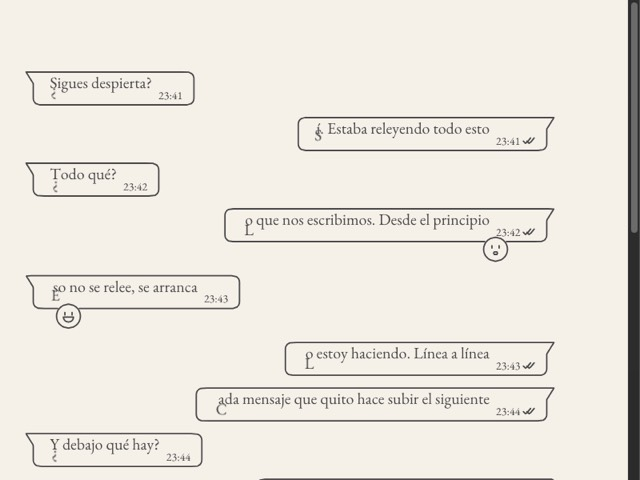
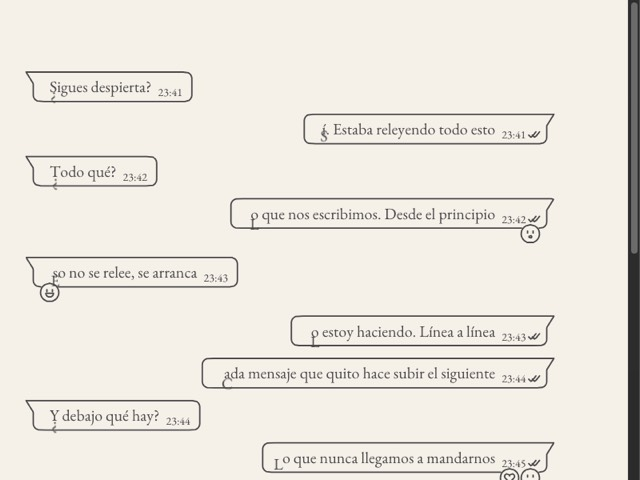
Chat bubbles: text centred, tighter ticks, smaller corner reactions
- A letter's box is exactly the font size (line-height 1), so the text
  block is (lines − 1) × lineHeight + f, centred with .42f above and
  below: the bubble no longer carries the extra line-height under the
  text (one line is now 1.84f tall).
- Tick room is the real ✓✓ width plus a small gap, with a tighter right
  pad after the ticks.
- Reaction badges are 1.15f and start right at the bottom corner
  (bottom-right on outgoing, bottom-left on incoming).

diff --git a/js/layout.js b/js/layout.js
@@ -395,14 +395,11 @@ export function layoutBlockAtWidth(block, maxWidth, startY, blockIdx = null) {
   const blockWidth = Math.max(80, Math.min(maxWidth, fitWidth, block.transform.width || maxWidth));
   // chat bubbles (js/chat.js): the text wraps inside the bubble, which is at most 78% of the block
   const chat = block.chat || null;
-  // bubble proportions measured on a chat app, in units of the font size (f):
-  // left pad .64f, right pad .73f, tail .45f, one-line bubble 2.05f tall with the text centred at .44
+  // bubble proportions in units of the font size (f). A letter's box is exactly f tall
+  // (line-height 1), so the text block is (lines − 1) × lineHeight + f, centred with .42f above and below
   const fpx = state.baseFontPx || 20;
-  const chatPad = chat ? {
-    l: fpx * 0.64, r: fpx * 0.73, tail: chat.tail ? fpx * 0.45 : 0,
-    top: Math.max(2, fpx * 0.9 - lineHeight / 2)
-  } : null;
-  if (chatPad) chatPad.bottom = Math.max(fpx * 0.3, fpx * 2.05 - lineHeight - chatPad.top);
+  const chatPad = chat ? { l: fpx * 0.62, r: fpx * 0.62, tail: chat.tail ? fpx * 0.45 : 0, top: fpx * 0.42, bottom: fpx * 0.42 } : null;
+  if (chatPad && chat.side === 'out' && chat.ticks !== 'none') chatPad.r = fpx * 0.45; // tighter after the ticks
   const wrapWidth = chat ? Math.max(40, blockWidth * 0.78 - chatPad.l - chatPad.r - chatPad.tail) : blockWidth;
   let maxLineW = 0;
   const rawPositions = [];
@@ -450,7 +447,7 @@ export function layoutBlockAtWidth(block, maxWidth, startY, blockIdx = null) {
     if (g !== ' ') maxLineW = Math.max(maxLineW, currentX);
   }
 
-  if (chat) return layoutChatBubble(block, chat, rawPositions, lineIndices, { startY, lineHeight, blockWidth, maxLineW, textUnits: currentY + lineHeight, pad: chatPad, fpx });
+  if (chat) return layoutChatBubble(block, chat, rawPositions, lineIndices, { startY, lineHeight, blockWidth, maxLineW, textUnits: currentY + fpx, pad: chatPad, fpx });
   return {
     positions: rawPositions,
     lineIndices,
@@ -467,7 +464,7 @@ function layoutChatBubble(block, chat, rawPositions, lineIndices, o) {
   const originX = state.MARGIN * sc + block.transform.x;
   let last = rawPositions.length - 1;
   while (last > 0 && (block.graphemes[last] === ' ' || block.graphemes[last] === '\n')) last--;
-  const tickRoom = chat.side === 'out' && chat.ticks !== 'none' ? o.fpx * 0.95 : 0;
+  const tickRoom = chat.side === 'out' && chat.ticks !== 'none' ? o.fpx * 0.2 + 13.5 / sc : 0; // gap + ✓✓ (13.5px)
   const lastRight = last >= 0 ? (rawPositions[last].x + rawPositions[last].w - originX) / sc : 0;
   const innerW = Math.max(o.maxLineW, lastRight + tickRoom, o.fpx);
   const bubbleW = innerW + P.l + P.r;
@@ -476,8 +473,8 @@ function layoutChatBubble(block, chat, rawPositions, lineIndices, o) {
   const W = bubbleW * sc, Hb = (o.textUnits + P.top + P.bottom) * sc;
   const dx = bubbleX + P.l * sc - originX, dy = P.top * sc;
   rawPositions.forEach(p => { p.x += dx; p.y += dy; });
-  // the time: smaller, pushed to the bottom-right corner, its baseline .4f above the bottom edge
-  const timeBase = bubbleY + Hb - f * 0.4;
+  // the time: smaller, pushed to the bottom-right corner, its baseline .36f above the bottom edge
+  const timeBase = bubbleY + Hb - f * 0.36;
   const timeIdx = []; for (let i = 0; i < rawPositions.length; i++) if (block.inlineStyles?.[i]?.size) timeIdx.push(i);
   if (timeIdx.length) {
     const timeRight = Math.max(...timeIdx.map(i => rawPositions[i].x + rawPositions[i].w));
@@ -486,17 +483,17 @@ function layoutChatBubble(block, chat, rawPositions, lineIndices, o) {
   }
   // the ticks sit on the time's baseline, just after it
   const lp = last >= 0 ? rawPositions[last] : null;
-  const ticks = tickRoom && lp ? { x: lp.x + lp.w - bubbleX + f * 0.22, y: timeBase - bubbleY - 8.5 } : null;
-  // reactions: round badges 1.5f across, overlapping the bottom edge by .27f;
-  // under the time on outgoing messages, near the left corner on incoming ones
+  const ticks = tickRoom && lp ? { x: lp.x + lp.w - bubbleX + f * 0.2, y: timeBase - bubbleY - 8.5 } : null;
+  // reactions: round badges 1.15f across, overlapping the bottom edge by .22f;
+  // at the bottom-right corner on outgoing messages, bottom-left on incoming ones
   let total = Hb + 2;
   const reactions = [];
   if (chat.reactions.length) {
-    const h = f * 1.5, w = h + (chat.reactions.length - 1) * (h + 3);
-    const cx = chat.side === 'out' ? W - f * 3.2 : f * 2.2;
-    const x = Math.max(f * 0.6, Math.min(W - f * 0.6 - w, cx - w / 2));
-    reactions.push({ x, y: Hb - f * 0.27, w, h, kinds: chat.reactions });
-    total = Hb - f * 0.27 + h + 4;
+    const h = f * 1.15, w = h + (chat.reactions.length - 1) * (h + 3);
+    // start right at the bottom corner, just inside its curve (mirrored on incoming messages)
+    const x = chat.side === 'out' ? W - w - f * 0.45 : f * 0.45;
+    reactions.push({ x, y: Hb - f * 0.22, w, h, kinds: chat.reactions });
+    total = Hb - f * 0.22 + h + 4;
   }
   const geom = { side: chat.side, W, Hb, total, tail: chat.tail, tailW: P.tail * sc, ticks, tickKind: chat.ticks, reactions, color: chat.color };
   return {

diff --git a/tirita.html b/tirita.html
@@ -1439,6 +1439,6 @@
     });
   })();
   </script>
-  <script type="module" src="./js/main.js?v=176"></script>
+  <script type="module" src="./js/main.js?v=178"></script>
 </body>
 </html>
